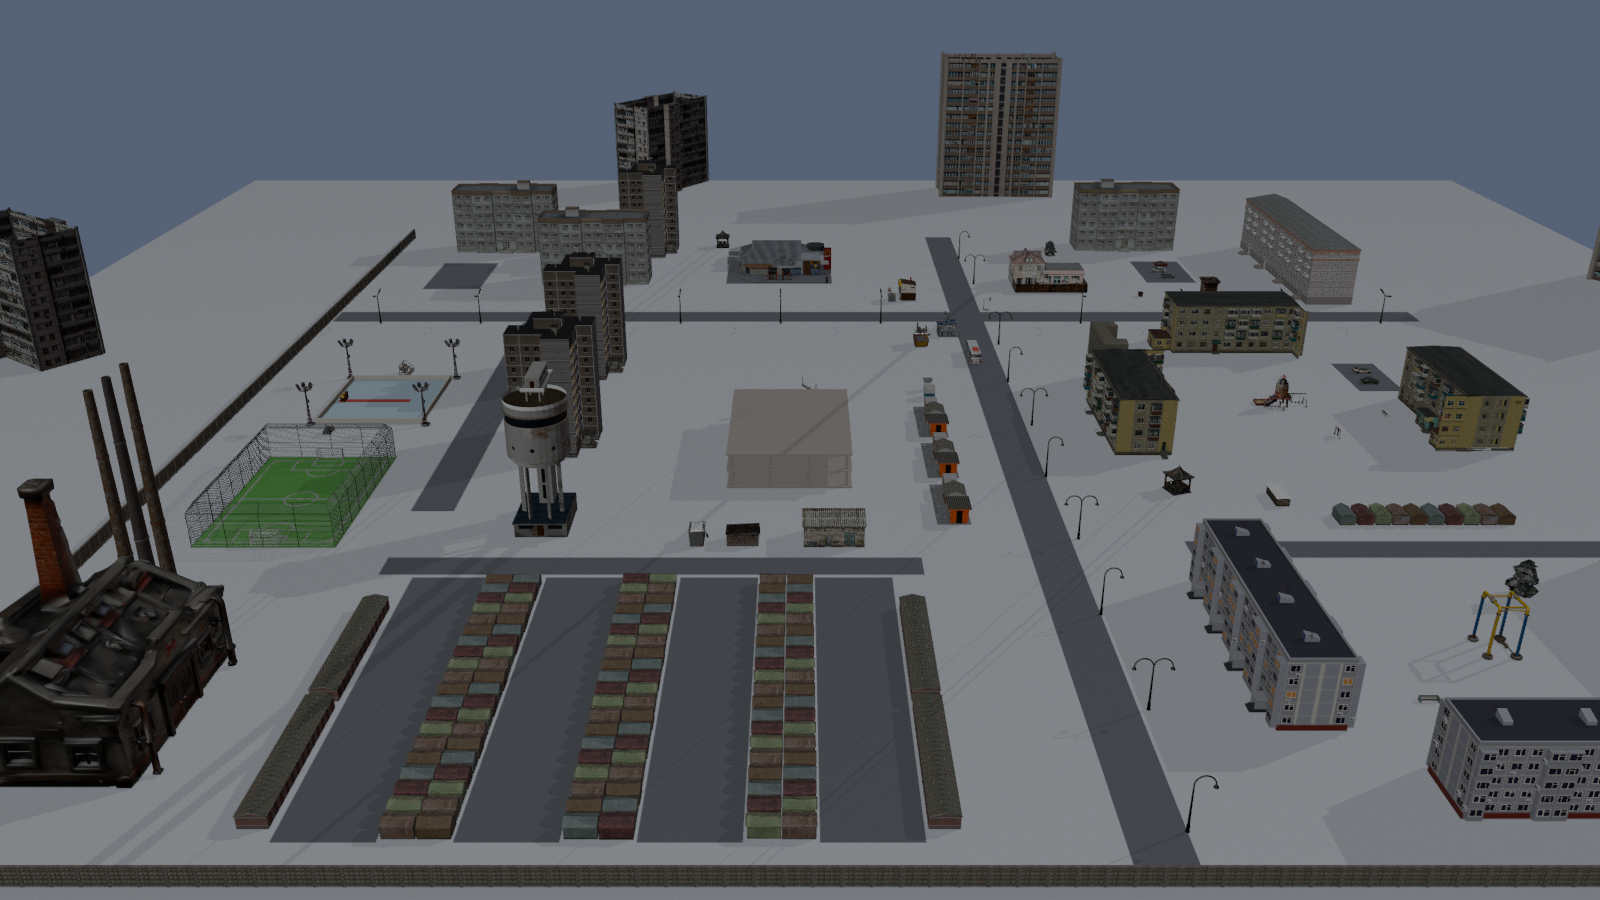
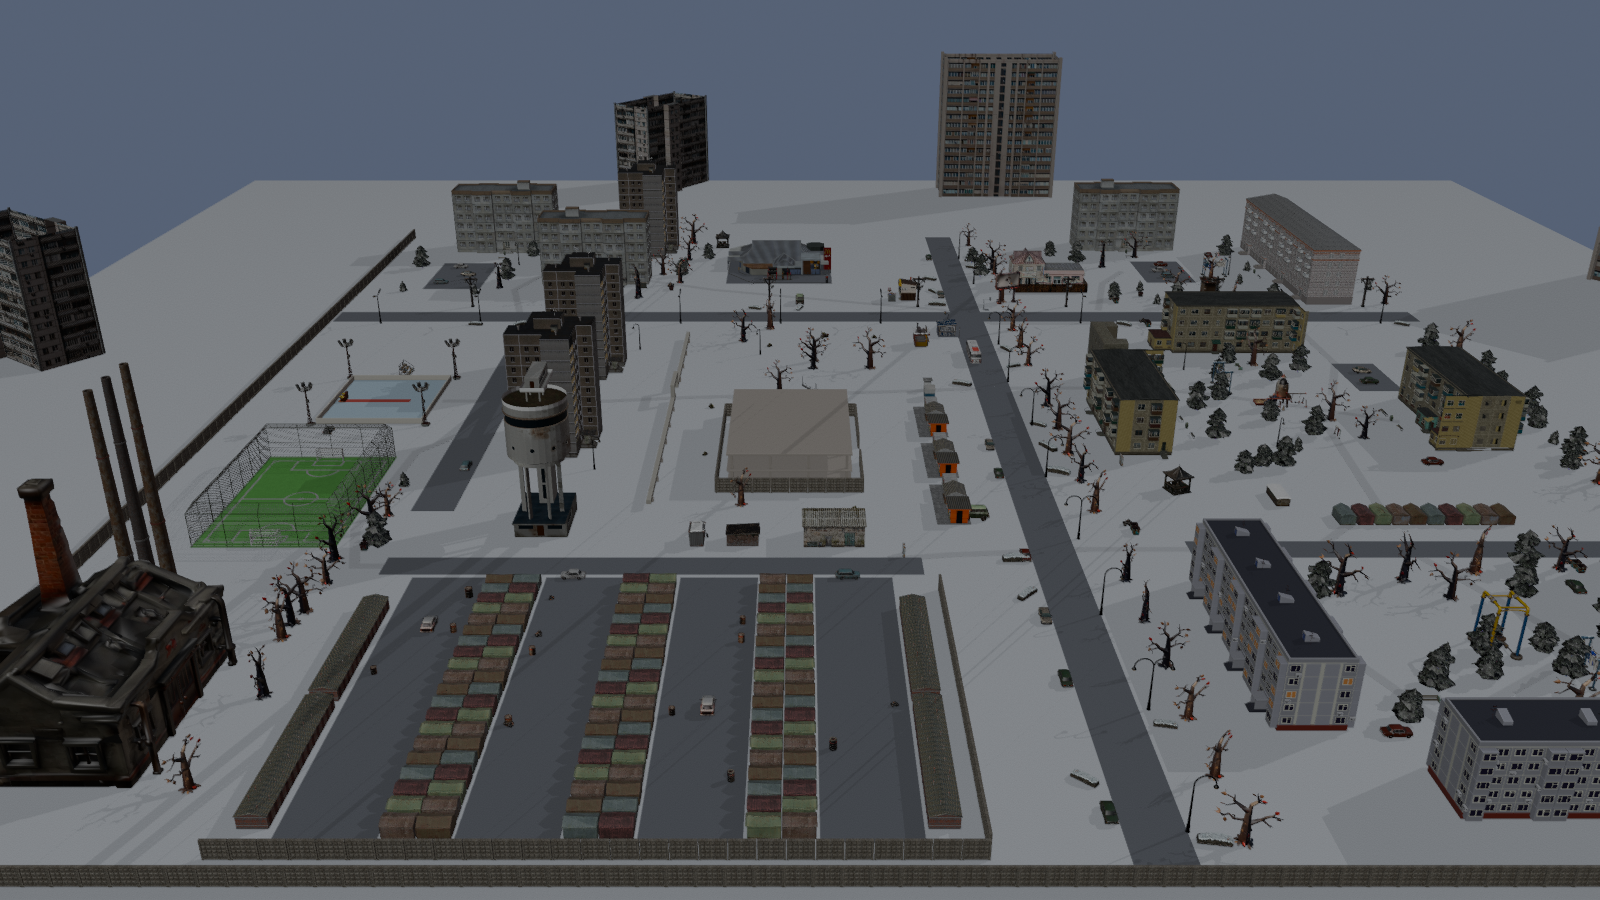
ДВОР, редизайн: проработка блокаута большого района — деревья, тропы, машины, заборы, мелочь, сумеречные кадры

diff --git a/tools/blender/dvor_blockout.py b/tools/blender/dvor_blockout.py
@@ -18,7 +18,11 @@ sc.world = bpy.data.worlds.new('w'); sc.world.color = (0.10, 0.12, 0.18)
 cam = bpy.data.objects.new('cam', bpy.data.cameras.new('cam')); sc.collection.objects.link(cam); sc.camera = cam
 
 def mat(nm, col):
-    m = bpy.data.materials.new(nm); m.diffuse_color = col + (1,); return m
+    m = bpy.data.materials.new(nm); m.diffuse_color = col + (1,)
+    m.use_nodes = True
+    b = m.node_tree.nodes.get('Principled BSDF')
+    if b: b.inputs['Base Color'].default_value = col + (1,); b.inputs['Roughness'].default_value = 0.85
+    return m
 MATS = {'snow': mat('snow', (0.86, 0.89, 0.94)), 'road': mat('road', (0.23, 0.24, 0.27)), 'ice': mat('ice', (0.62, 0.78, 0.9)),
         'board': mat('board', (0.85, 0.82, 0.74)), 'red': mat('red', (0.7, 0.12, 0.1)), 'box': mat('box', (0.55, 0.5, 0.45)), 'walk': mat('walk', (0.7, 0.72, 0.76))}
 
@@ -139,6 +143,106 @@ for mid, tx, ty, yw in (('tower_16_wide', -60, y1 + far, 0), ('tower_9_wide', 40
                         ('tower_9_wide', x1 + far, 70, 90), ('tower_16_slab', x1 + far - 10, -50, 0), ('tower_9_slab', -40, y0 - far, 90), ('tower_16_wide', 90, y0 - far - 10, 0)):
     put(mid, tx, ty, yw, None, 'skyline')
 
+
+# ---------------------------------------------------------------- проработка большого района (только вариант C)
+LAMPS = []
+if BIG:
+    import random
+    rnd = random.Random(67)
+    MATS['path'] = mat('path', (0.72, 0.74, 0.78)); MATS['banner'] = mat('banner', (0.75, 0.1, 0.08)); MATS['pipe'] = mat('pipe', (0.6, 0.58, 0.52))
+    solid = [(it['x'], it['y'], it['w'], it['h']) for it in L['items'] if not it.get('mark') and it['cat'] in ('res', 'gar', 'road', 'boss') or it['id'] in ('SITE', 'PITCH')]
+    def free(x, y, pad=2.5):
+        for sx, sy, sw, sh_ in solid:
+            if abs(x - sx) < sw / 2 + pad and abs(y - sy) < sh_ / 2 + pad: return False
+        for pts in L.get('paths', []):
+            for (ax, ay), (bx, by) in zip(pts, pts[1:]):
+                dx, dy = bx - ax, by - ay; t = max(0, min(1, ((x - ax) * dx + (y - ay) * dy) / max(dx * dx + dy * dy, 1e-6)))
+                if math.hypot(x - ax - dx * t, y - ay - dy * t) < 2.2: return False
+        return x0 + 5 < x < x1 - 5 and y0 + 5 < y < y1 - 5
+    def gput(mid, x, y, size, yaw=None, nm='d'):
+        src = model('game:' + mid)
+        if src is None: return None
+        d = src[3] - src[2]
+        return put('game:' + mid, x, y, rnd.uniform(0, 360) if yaw is None else yaw, None, nm, size / max(d.x, d.y, d.z, 1e-6))
+    # тропы по маршрутам
+    for pts in L.get('paths', []):
+        for (ax, ay), (bx, by) in zip(pts, pts[1:]):
+            ln = math.hypot(bx - ax, by - ay)
+            o = box('path', (ax + bx) / 2, (ay + by) / 2, ln + 1.2, 1.8, 0.0, 0.03, 'path'); o.rotation_euler = (0, 0, math.atan2(by - ay, bx - ax))
+    # деревья и кусты по дворам
+    for (ax, ay, bx, by, n, kinds) in ((-34, -104, 32, -62, 16, 'tpp'), (-122, -112, -70, -60, 18, 'tpp'), (74, -112, 128, -62, 16, 'tpp'), (82, 46, 144, 132, 20, 'tpp'),
+                                       (-52, 0, 58, 44, 14, 'ut'), (-70, 92, -20, 100, 5, 'tp'), (-146, -140, 146, -132, 26, 'tp'), (-146, 96, -74, 104, 6, 't'), (76, -40, 146, -30, 6, 'tp')):
+        k = 0; tries = 0
+        while k < n and tries < n * 30:
+            tries += 1; x, y = rnd.uniform(ax, bx), rnd.uniform(ay, by)
+            if not free(x, y): continue
+            c = rnd.choice(kinds); k += 1
+            if c == 't': gput('racing/bare_tree', x, y, rnd.uniform(7, 10))
+            elif c == 'b': gput('racing/birch_tree', x, y, rnd.uniform(8, 11))
+            elif c == 'u': gput('racing/bush', x, y, rnd.uniform(1.2, 2.0))
+            else: put('snow_pine_%d' % rnd.randint(1, 3), x, y, rnd.uniform(0, 360), None, 'pine')
+            solid.append((x, y, 2.5, 2.5))
+    # аллея берёз вдоль улицы Облачной и столбы вдоль Битной
+    for x in range(-140, 56, 13):
+        if free(x, -34.5, 1.0): gput('racing/bare_tree', x, -34.5, rnd.uniform(7, 9))
+    for y in range(-130, 136, 40):
+        if abs(y + 24) > 8: gput('racing/power_pole', 74.5, y, 8.5, 0)
+    # машины у бордюра, во дворах и в ГСК
+    cars = ['car_zhiguli_1', 'car_zhiguli_2', 'car_zhiguli_3', 'car_zhiguli_4', 'car_vaz_21099']
+    for x in range(-136, 140, 17):
+        if rnd.random() < 0.55 and abs(x - 66) > 10: put(rnd.choice(cars), x + rnd.uniform(-3, 3), -18.9, 90 + rnd.choice((0, 180)), None, 'car')
+    for x, y, yw in ((-28, -106, 0), (-78, -108, 90), (-118, -62, 0), (30, -60, 90), (124, -104, 90), (96, 122, 0), (104, 116, 180), (112, 120, 0), (-74, 12, 0), (-74, 58, 180), (46, 86, 90), (-30, 86, 90)):
+        put(rnd.choice(cars), x, y, yw, None, 'car')
+    gput('racing/old_van', -52, -12, 5.2, 90); gput('racing/old_van', 78, 20, 5.2, 0); gput('racing/old_car', -112, 33, 4.3, 90); gput('racing/old_car', -90, 78, 4.3, 90)
+    # лавки, урны, бельё, баки, шкафы у домов
+    for it in L['items']:
+        if it['cat'] == 'res' and not it.get('mark') and it['hgt'] < 25 and it['id'] != 'H3A':
+            lx, ly = (it['x'], it['y'] - it['h'] / 2 - 2.0) if it['w'] > it['h'] else (it['x'] - it['w'] / 2 - 2.0, it['y'])
+            if it['y'] < -90 or it['x'] > 120: lx, ly = (it['x'], it['y'] + it['h'] / 2 + 2.0) if it['w'] > it['h'] else (it['x'] - it['w'] / 2 - 2.0, it['y'])
+            yw = 90 if it['w'] > it['h'] else 0
+            put(rnd.choice(('bench_concrete', 'bench_siberian')), lx - 4, ly, yw if 'concrete' in 'x' else (0 if it['w'] > it['h'] else 90), None, 'bench')
+            put('bench_siberian', lx + 5, ly, 0 if it['w'] > it['h'] else 90, None, 'bench')
+            put('game:g67_urn', lx + 0.5, ly, 0, 0.7, 'urn')
+    for x, y in ((-104, -96), (104, -100), (14, -76), (122, 80)):
+        put('game:g67_laundry_lines', x, y, rnd.choice((0, 90)), 7.0, 'laundry')
+    for x, y in ((-72, -112), (58, -70), (78, -66), (-58, -40), (90, 56), (140, 126), (-64, 96)):
+        put('dumpster_blue', x, y, 0, None, 'dump'); put('dumpster_blue', x + 1.6, y, 0, None, 'dump'); gput('racing/trash_pile', x + 3.4, y + 0.6, 2.0)
+    for x, y, yw in ((30, -64, 90), (-28, -44, 0), (76, -100, 90), (92, 64, 90), (-66, 2, 0)):
+        put(rnd.choice(('elbox_green', 'elbox_rusty_pair')), x, y, yw, None, 'elbox')
+    # сугробы вдоль дорог
+    for x in range(-140, 144, 12):
+        if rnd.random() < 0.6 and abs(x - 66) > 8: put('game:g67_snowdrift', x, rnd.choice((-17.2, -30.8)), rnd.uniform(0, 360), rnd.uniform(3, 5), 'drift')
+    for y in range(-136, 138, 12):
+        if rnd.random() < 0.5 and abs(y + 24) > 8: put('game:g67_snowdrift', rnd.choice((59.2, 72.8)), y, rnd.uniform(0, 360), rnd.uniform(3, 5), 'drift')
+    # заборы: стройка, южная и западная стороны ГСК
+    def fence_line(ax, ay, bx, by, gap=None):
+        ln = math.hypot(bx - ax, by - ay); n = int(ln / 3.43); yw = math.degrees(math.atan2(by - ay, bx - ax)) + 90
+        for i in range(n):
+            t = (i + 0.5) / n
+            if gap and gap[0] < t < gap[1]: continue
+            put('fence_rhombus', ax + (bx - ax) * t, ay + (by - ay) * t, yw, None, 'fence')
+    fence_line(-41, 8, -3, 8, (0.35, 0.55)); fence_line(-41, 36, -3, 36); fence_line(-41, 8, -41, 36); fence_line(-3, 8, -3, 36, (0.4, 0.62))
+    fence_line(-142, -3, -78, -3); fence_line(-143, -3, -143, 92)
+    # теплотрасса на опорах с П-образным переходом, растяжка турнира между башнями
+    for x in range(-48, 46, 3):
+        if abs(x - 8) < 4: continue
+        o = box('pipe', x + 1.5, 48, 3.1, 0.9, 1.0, 1.9, 'pipe')
+        if x % 9 == 0: box('leg', x, 48, 0.3, 1.2, 0, 1.0, 'box')
+    for sx in (4, 12): box('pipe', sx, 48, 0.9, 0.9, 1.0, 4.6, 'pipe')
+    box('pipe', 8, 48, 8.9, 0.9, 3.8, 4.7, 'pipe')
+    box('banner', 6, 70, 26.4, 0.12, 11.0, 12.8, 'banner')
+    # мелочь: шины у шиномонтажа, бочки и хлам в гаражах, рекламный щит, дворовые фонари
+    for i in range(4): gput('racing/tire_stack', 90 + i * 1.1, -13.5 + (i % 2) * 0.5, 1.2)
+    for i in range(14):
+        x, y = rnd.uniform(-138, -76), rnd.choice((6.5, 15.5, 29, 38, 51.5, 60.5, 74, 83))
+        gput(rnd.choice(('racing/barrel', 'racing/tire_stack', 'racing/trash_pile')), x, y, rnd.uniform(1.0, 1.8))
+    gput('racing/billboard', 78, -36, 9.0, 200)
+    for x, y in ((0, -100), (-20, -78), (26, -70), (-96, -104), (-108, -66), (104, -104), (120, -72), (116, 104), (96, 96), (-10, 14), (36, 30), (-46, 100), (20, 100), (-30, 60), (40, 60)):
+        if free(x, y, 0.5): put('lamp_5', x, y, rnd.uniform(0, 360), None, 'ylamp', 2.0); LAMPS.append((x, y, 6.2))
+    for lx in range(int(x0) + 12, int(x1) - 8, 26): LAMPS.append((lx, -27.5, 8.0))
+    for ly in range(int(y0) + 14, int(y1) - 8, 26): LAMPS.append((62.5, ly, 8.0))
+    for c in ((-7, 100), (19, 100), (-7, 124), (19, 124)): LAMPS.append((c[0], c[1], 11.0))
+
 bpy.ops.wm.save_as_mainfile(filepath=os.path.join(ROOT, 'blender_source', 'dvor_blockout%s.blend' % ('_c' if (x1 - x0) > 200 else '')))
 
 def view(nm, pos, look, lens=28, res=(1600, 900), ortho=None):
@@ -182,4 +286,26 @@ else:
     view('09_kiosk_corner', (12, -29, 1.8), (30, -42, 2.5), lens=22)
     view('10_court_from_gate', (16, 42, 2.0), (16, 64, 2.5), lens=20)
     view('11_nook', (-30, 20, 1.8), (-44, 30, 2), lens=22)
+if BIG:
+    # вечерние кадры: синие сумерки, тёплые фонари
+    try:
+        sc.render.engine = 'BLENDER_EEVEE'
+        sc.world.use_nodes = True
+        bg = sc.world.node_tree.nodes.get('Background')
+        if bg: bg.inputs[0].default_value = (0.02, 0.045, 0.13, 1); bg.inputs[1].default_value = 1.0
+        sun = bpy.data.objects.new('moon', bpy.data.lights.new('moon', 'SUN')); sc.collection.objects.link(sun)
+        sun.data.energy = 0.55; sun.data.color = (0.55, 0.68, 1.0); sun.rotation_euler = (math.radians(58), 0, math.radians(35))
+        for i, (lx, ly, lz) in enumerate(LAMPS):
+            li = bpy.data.objects.new('l%d' % i, bpy.data.lights.new('l%d' % i, 'POINT')); sc.collection.objects.link(li)
+            li.location = (lx, ly, lz); li.data.energy = 5200 if lz > 10 else 2600; li.data.color = (1.0, 0.95, 0.9) if lz > 10 else (1.0, 0.62, 0.3)
+            li.data.shadow_soft_size = 0.4; li.data.use_shadow = i % 3 == 0
+        sc.view_settings.exposure = 0.6
+        view('c_e1_street_dusk', (-30, -19, 1.8), (50, -14, 3), lens=24, res=(1600, 900))
+        view('c_e2_home_yard_dusk', (-6, -107.5, 1.9), (10, -60, 7), lens=22, res=(1600, 900))
+        view('c_e3_towers_gate_dusk', (8, 22, 1.8), (6, 80, 14), lens=24, res=(1600, 900))
+        view('c_e4_mcqueen_dusk', (80, -20, 1.6), (93, -10, 1.2), lens=28, res=(1600, 900))
+        view('c_e5_gsk_dusk', (-72, 56, 1.8), (-140, 57, 1.5), lens=22, res=(1600, 900))
+        view('c_e6_aerial_dusk', (cx - 30, y0 - 150, 170), (cx, cy - 10, 0), lens=30, res=(1600, 900))
+    except Exception as e:
+        print('EVENING FAILED', e)
 print('DONE')

diff --git a/tools/dvor_plan.py b/tools/dvor_plan.py
@@ -253,7 +253,7 @@ def layout(V):
             out.append({'id': it['id'], 'cat': it['cat'], 'x': it['cx'], 'y': it['cy'], 'w': it['w'], 'h': it['h'], 'model': it['model'], 'yaw': it['yaw'], 'hgt': it['hgt'], 'label': it['label'].replace('\n', ' ')})
         if it['k'] == 'mark' and it['model']:
             out.append({'id': it['label'] or it['model'], 'cat': it['cat'], 'x': it['cx'], 'y': it['cy'], 'w': it['r'] * 2, 'h': it['r'] * 2, 'model': it['model'], 'yaw': it['yaw'], 'hgt': 2.0, 'label': it['label'], 'mark': True})
-    return {'name': V['name'], 'x': V['x'], 'y': V['y'], 'items': out}
+    return {'name': V['name'], 'x': V['x'], 'y': V['y'], 'items': out, 'paths': [it['pts'] for it in V['items'] if it['k'] == 'path']}
 
 if __name__ == '__main__':
     os.makedirs(OUT, exist_ok=True)

diff --git a/godot/docs/golda67/dvor_redesign/DVOR_REDESIGN_SUMMARY.md b/godot/docs/golda67/dvor_redesign/DVOR_REDESIGN_SUMMARY.md
@@ -92,3 +92,14 @@
 Что видно по блокауту: между домами слишком много голого снега — следующий проход должен дать деревья, тропы, заборы,
 машины, бельё, дворовую мелочь; котельная из игры мала рядом с трубами; футбольная коробка весит 497 тыс. треугольников —
 сетку надо заменить текстурой; девятиэтажных «ворот» к коробке хочется связать переходом или растяжкой.
+
+## Проработка блокаута (2026-11-24, после «да, детализируй»)
+
+В `tools/blender/dvor_blockout.py` для варианта C добавлен слой деталей (всё расставляется по правилам из раскладки, зерно 67):
+тропы по маршрутам; ели и голые деревья по дворам, аллея вдоль улицы Облачной; машины у бордюра, во дворах и в ГСК; лавки и урны
+у домов; бельё, баки с мусором, электрошкафы; сугробы вдоль дорог; заборы вокруг долгостроя и ГСК; теплотрасса с П-образным
+переходом; растяжка турнира между башнями; шины у шиномонтажа; бочки и хлам в гаражных проездах; рекламный щит; столбы; дворовые
+фонари. Сняты шесть сумеречных кадров с тёплыми фонарями: `img/blockout_c_e1…e6_*.png`.
+
+Что ещё не так: голые деревья из игры мультяшные рядом с реалистичными домами (нужны зимние деревья в том же стиле);
+нет света в окнах и снега на крышах; теплотрасса и долгострой — простые блоки; котельная мала; на фастфуде логотипы.
